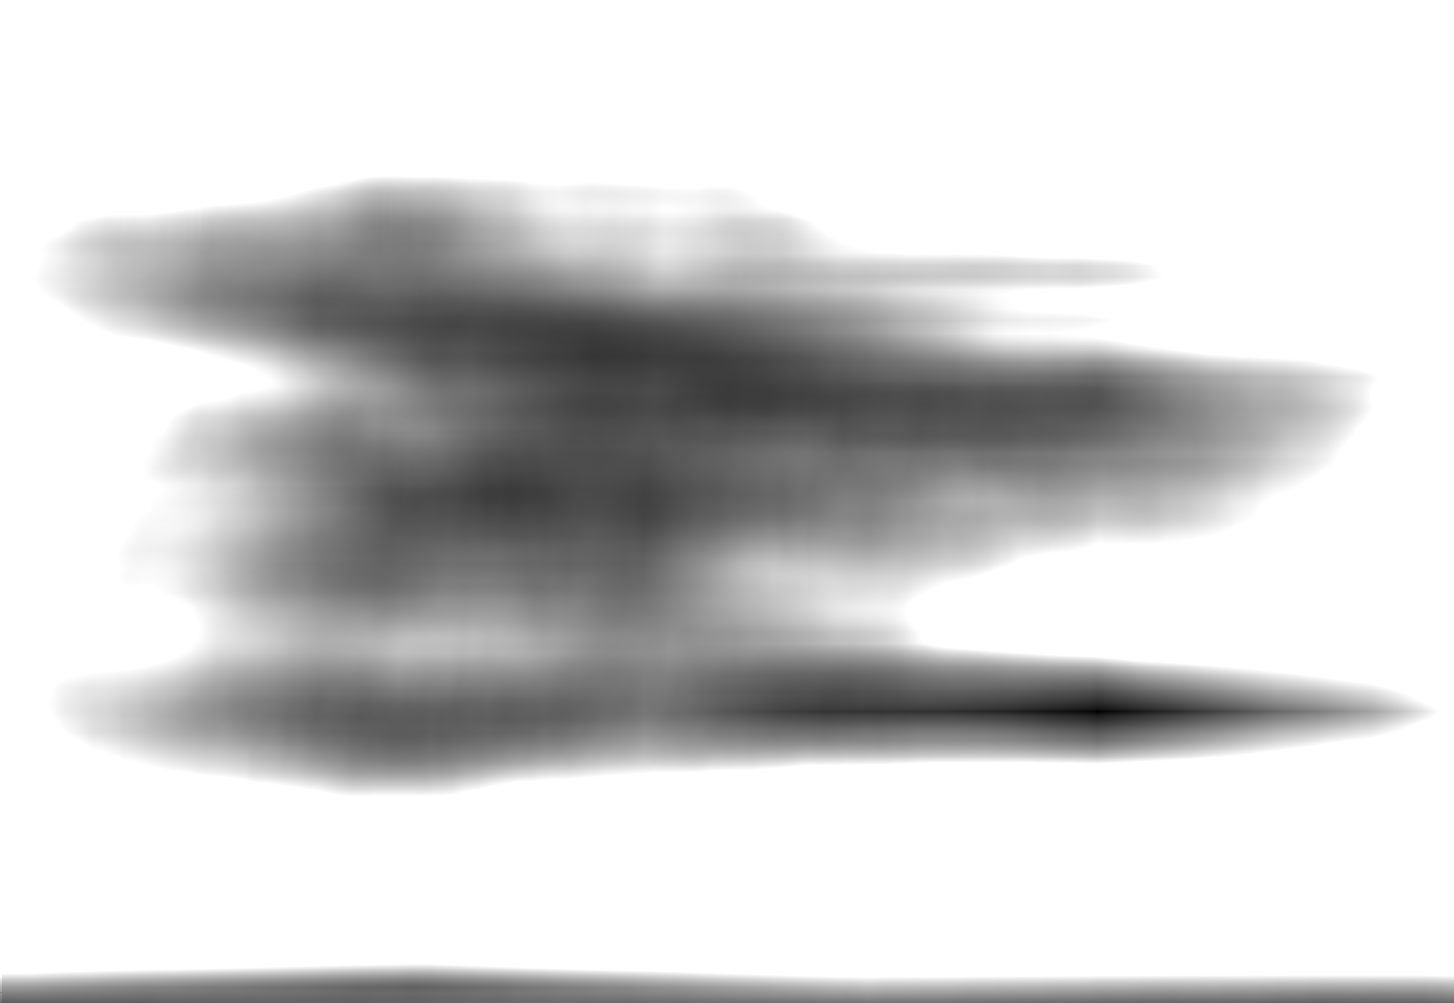
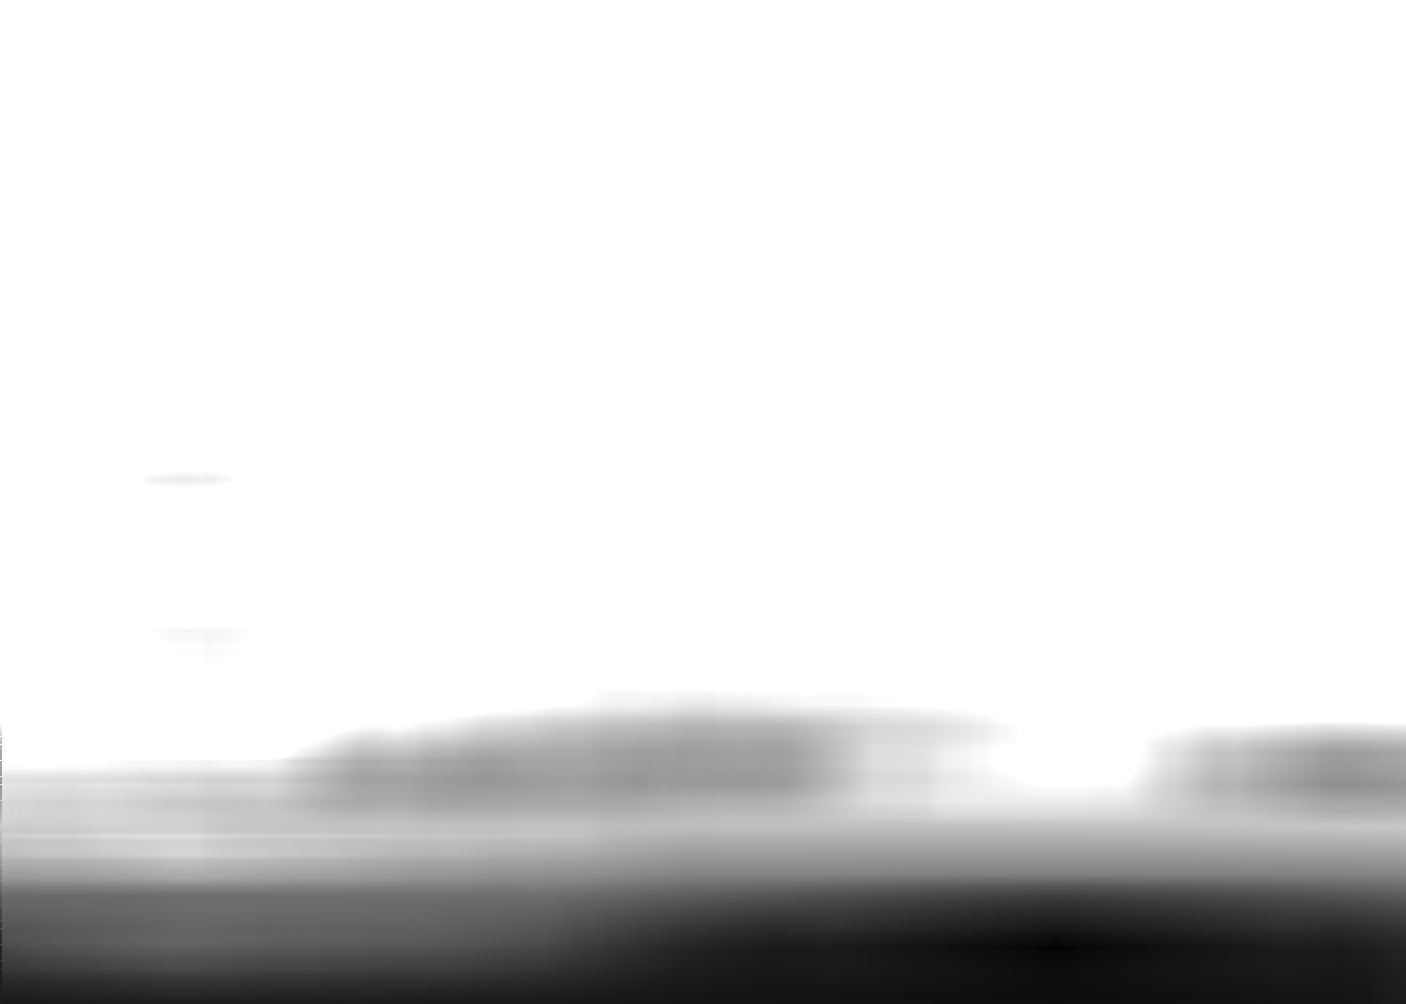
feat: update pcControllerTrait

diff --git a/packages/aah-controller/src/pc_controller/windows_controller.rs b/packages/aah-controller/src/pc_controller/windows_controller.rs
@@ -154,8 +154,8 @@ impl PcControllerTrait for WindowsController {
     }
 
     // 模拟鼠标滑动
-    fn swipe(&self, from_x: i32, from_y: i32, to_x: i32, to_y: i32, duration_ms: u64) -> Result<(), MyError> {
-        self.impl_swipe(from_x, from_y, to_x, to_y, duration_ms)
+    fn swipe(&self, from_x: i32, from_y: i32, to_x: i32, to_y: i32, duration_sec: f64) -> Result<(), MyError> {
+        self.impl_swipe(from_x, from_y, to_x, to_y, (duration_sec * 1000.0) as u64)
     }
 }
 

diff --git a/packages/aah-controller/src/lib.rs b/packages/aah-controller/src/lib.rs
@@ -255,7 +255,7 @@ pub trait PcControllerTrait: Controller {
     fn key_release(&self, key: Key) -> Result<(), MyError>;
 
     // 模拟鼠标拖动
-    fn swipe(&self, from_x: i32, from_y: i32, to_x: i32, to_y: i32, duration_ms: u64) -> Result<(), MyError>;
+    fn swipe(&self, from_x: i32, from_y: i32, to_x: i32, to_y: i32, duration_sec: f64) -> Result<(), MyError>;
 
     // MARK: Has default implementation
 
